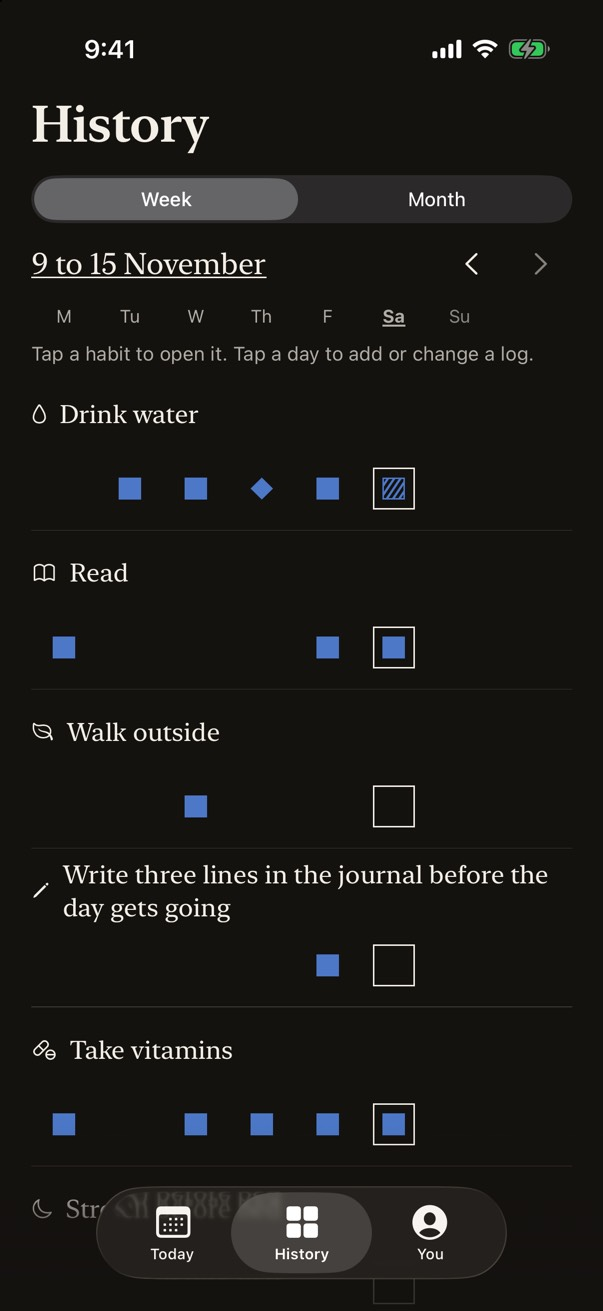
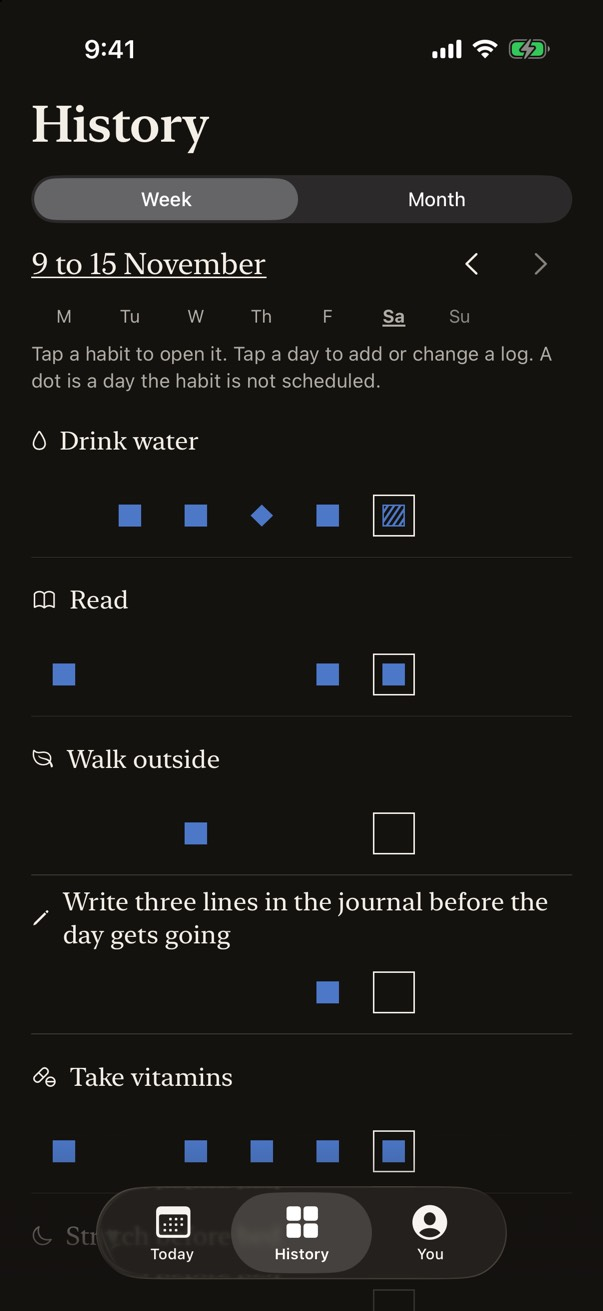
Round 2 fixes: archived habits in every detail view, Clear in view, the dot line
- Habit detail Month and Year treat an archived habit as Week does: no day buttons, no today outline, no hint.
- Bring back shows an Undo line.
- A counted day sheet opens at full height, so Clear this day is in view.
- History Week's hint keeps "A dot is a day the habit is not scheduled."
- A UI test checks that Back from detail opened in History reads History.

diff --git a/App/History/HabitDetailView.swift b/App/History/HabitDetailView.swift
@@ -98,7 +98,9 @@ private struct HabitDetailPage: View {
                         Text(Verb.tapMonth).font(style.label(.footnote)).foregroundStyle(style.secondary)
                         SmallMarkKey()
                     } else {
-                        Text(Verb.tapPastDay).font(style.label(.footnote)).foregroundStyle(style.secondary)
+                        if !habit.isArchived {
+                            Text(Verb.tapPastDay).font(style.label(.footnote)).foregroundStyle(style.secondary)
+                        }
                     }
                     if kind == .week {
                         WeekTotalLine(habit: habit, days: Periods.week(of: anchor, firstWeekday: clock.calendar.firstWeekday), totals: totals)
@@ -219,7 +221,7 @@ private struct WeekGrid: View {
                 ForEach(days.indices, id: \.self) { i in
                     dayButton(days[i], state: states[i], words: words) {
                         HStack(spacing: 12) {
-                            MarkView(state: states[i], isToday: days[i] == today, size: 36).frame(width: 52)
+                            MarkView(state: states[i], isToday: days[i] == today && !habit.isArchived, size: 36).frame(width: 52)
                             VStack(alignment: .leading) {
                                 Text(words.long(days[i])).foregroundStyle(days[i] > today ? style.tertiary : style.text)
                                 if let count = countWords(days[i]) { Text(count).foregroundStyle(style.secondary) }
@@ -241,7 +243,7 @@ private struct WeekGrid: View {
                                 .foregroundStyle(days[i] > today ? style.tertiary : style.secondary)
                                 .lineLimit(1)
                                 .minimumScaleFactor(0.8)
-                            MarkView(state: states[i], isToday: days[i] == today, size: 28)
+                            MarkView(state: states[i], isToday: days[i] == today && !habit.isArchived, size: 28)
                             Text(countNumber(days[i]) ?? " ")
                                 .font(style.count(.caption))
                                 .foregroundStyle(style.secondary)
@@ -375,7 +377,7 @@ private struct MonthGrid: View {
     @ViewBuilder
     private func cell(_ day: DayKey, state: DayState, words: DayWords) -> some View {
         let content = VStack(spacing: 3) {
-            MarkView(state: state, isToday: day == today, size: 24)
+            MarkView(state: state, isToday: day == today && !habit.isArchived, size: 24)
             Text(day.day.formatted())
                 .font(style.label(.caption2).monospacedDigit())
                 .foregroundStyle(day > today ? style.tertiary : style.secondary)
@@ -384,7 +386,8 @@ private struct MonthGrid: View {
         .frame(maxWidth: .infinity, minHeight: 52)
         .contentShape(Rectangle())
         let spoken = [words.long(day), DayWords.state(state)].compactMap { $0 }.joined(separator: ". ")
-        if day > today && (totals[day.rawValue] ?? 0) <= 0 {
+        // An archived habit takes no logs, as in History.
+        if (day > today && (totals[day.rawValue] ?? 0) <= 0) || habit.isArchived {
             content.accessibilityElement(children: .ignore).accessibilityLabel(Text(spoken))
         } else {
             Button { model.daySheet = DayRequest(habit: habit, day: day) } label: { content }
@@ -472,7 +475,7 @@ private struct YearGrid: View {
                                 for (r, week) in weeks.enumerated() {
                                     for (c, day) in week.enumerated() {
                                         let rect = CGRect(x: CGFloat(c) * cell, y: CGFloat(r) * cell, width: cell, height: cell).insetBy(dx: 0.75, dy: 0.75)
-                                        SmallMark.draw(states[r][c], isToday: day == today, in: rect, context: &context, style: style)
+                                        SmallMark.draw(states[r][c], isToday: day == today && !habit.isArchived, in: rect, context: &context, style: style)
                                     }
                                 }
                             }

diff --git a/AppUITests/HistoryUITests.swift b/AppUITests/HistoryUITests.swift
@@ -52,6 +52,16 @@ final class HistoryUITests: XCTestCase {
         XCTAssertTrue(app.staticTexts["Friday 13 November"].waitForExistence(timeout: 3))
     }
 
+    func testBackFromDetailOpenedInHistoryReadsHistory() {
+        let app = launch(["-screen", "history"])
+        // The row is one element. Its name sits at the top, above the day cells.
+        let row = app.buttons["Drink water"].firstMatch
+        XCTAssertTrue(row.waitForExistence(timeout: 5))
+        row.coordinate(withNormalizedOffset: CGVector(dx: 0.3, dy: 0.15)).tap()
+        XCTAssertTrue(app.staticTexts["Days logged"].waitForExistence(timeout: 3))
+        XCTAssertTrue(app.navigationBars.buttons["History"].exists)
+    }
+
     func testHistoryShowsEveryHabitAndArchivedOnlyWithALog() {
         let app = launch(["-screen", "history"])
         XCTAssertTrue(app.staticTexts["History"].waitForExistence(timeout: 5))

diff --git a/App/History/HistoryView.swift b/App/History/HistoryView.swift
@@ -46,7 +46,7 @@ struct HistoryView: View {
                 } else {
                     Section {
                         // How to use the rows, above them, so it is seen before the list runs under the tab bar.
-                        Text(kind == .week ? Verb.tapHabitOrDay : Verb.tapHabitMonth)
+                        Text(kind == .week ? Verb.tapHabitOrDay + " " + String(localized: "A dot is a day the habit is not scheduled.") : Verb.tapHabitMonth)
                             .font(style.label(.footnote))
                             .foregroundStyle(style.secondary)
                             .padding(.vertical, 4)

diff --git a/App/Root/AppModel.swift b/App/Root/AppModel.swift
@@ -125,9 +125,15 @@ final class AppModel {
     }
 
     func bringBack(_ habit: Habit, context: ModelContext, all: [Habit]) {
+        let archivedAt = habit.archivedAt, sortIndex = habit.sortIndex
         habit.archivedAt = nil
         habit.sortIndex = Ordering.nextIndex(all)
         try? context.save()
+        show(UndoLine(message: String(localized: "\(habit.name) brought back")) {
+            habit.archivedAt = archivedAt
+            habit.sortIndex = sortIndex
+            try? context.save()
+        })
     }
 
     func show(_ line: UndoLine) {

diff --git a/App/History/DaySheet.swift b/App/History/DaySheet.swift
@@ -66,7 +66,8 @@ struct DaySheet: View {
             .navigationBarTitleDisplayMode(.inline)
             #endif
         }
-        .presentationDetents(typeSize.isAccessibilitySize ? [.large] : [.medium, .large])
+        // A count has the amount, its result line and three buttons, which do not fit at medium height.
+        .presentationDetents(typeSize.isAccessibilitySize || habit.kind == .counted ? [.large] : [.medium, .large])
     }
 
     // MARK: Yes or no

diff --git a/docs/decisions.md b/docs/decisions.md
@@ -173,7 +173,7 @@ One entry per decision that changed the brief. Each says what changed and why, i
 
 **The import preview leads with what changes.** It showed the file's totals first, so the reader had to subtract. It now shows the habits, logs and pauses it adds and the logs already here, in the same rows as the result. Asked for by the tired daily user.
 
-**An archived habit takes no logs in Habit detail either.** History already drew an archived habit's days as plain marks, while detail let them be logged. Detail now matches: its days are not buttons, and "Add a past day" becomes "Bring back". Asked for by the UI and UX designer.
+**An archived habit takes no logs in Habit detail either.** History already drew an archived habit's days as plain marks, while detail let them be logged. Detail now matches in Week, Month and Year: its days are not buttons, there is no today outline, and "Add a past day" becomes "Bring back", which shows an Undo line. Asked for by the UI and UX designer.
 
 **The Undo line shows only in the tab where the action was made.** A line made in History also showed on Today, where Undo would change a day out of sight. Asked for by the UI and UX designer.
 
